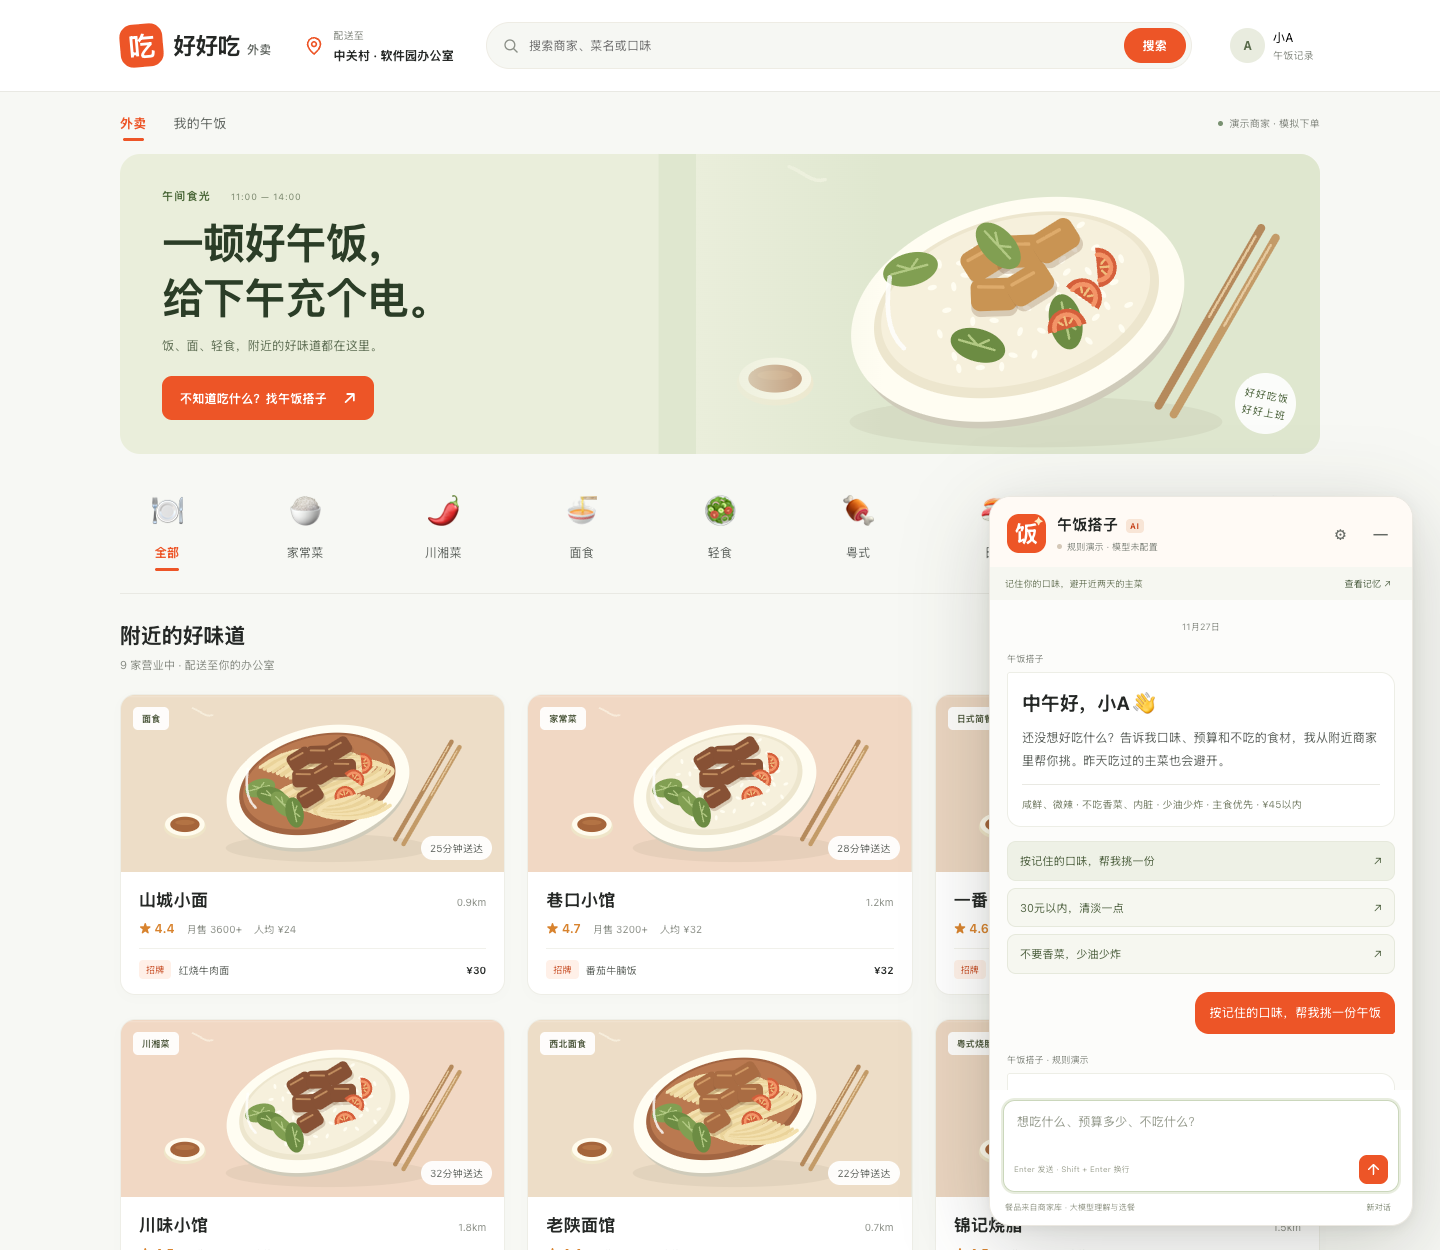
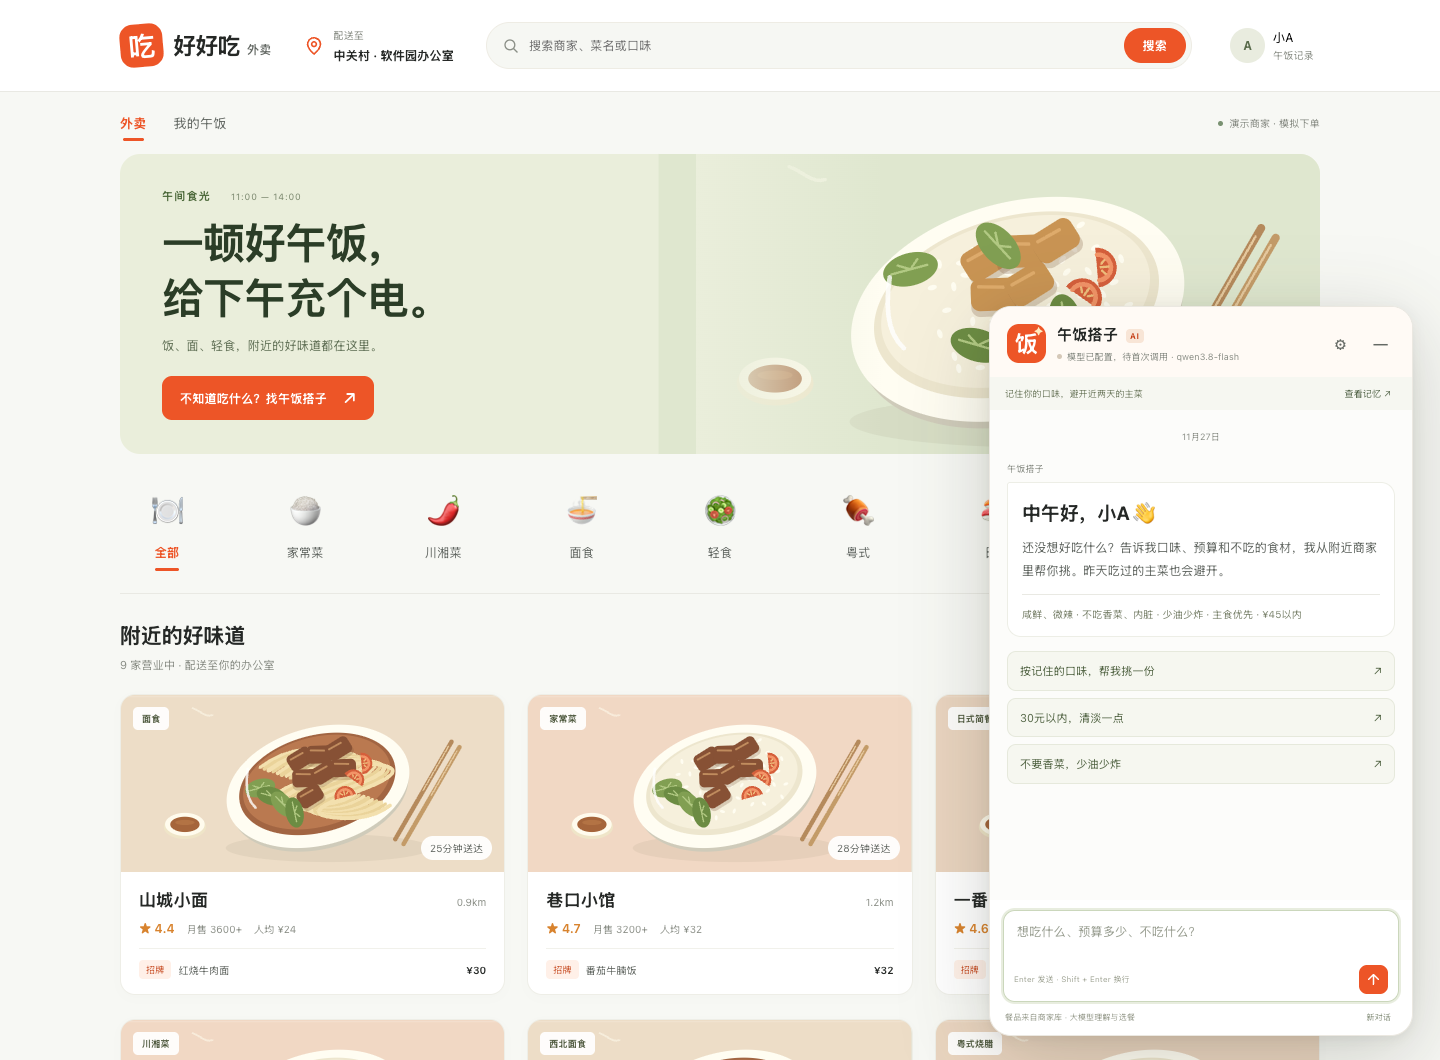
Finalize Qwen preferences and real-call diagnostics

diff --git a/server/configure-key.py b/server/configure-key.py
@@ -1,0 +1,53 @@
+"""从百炼导出的 CSV 安全写入本地 .env，不打印密钥。"""
+import csv
+import os
+from pathlib import Path
+import sys
+import tempfile
+
+
+def main():
+    if len(sys.argv) != 2:
+        raise ValueError("用法：python3 server/configure-key.py 密钥CSV路径")
+    source = Path(sys.argv[1])
+    with source.open(encoding="utf-8-sig", newline="") as handle:
+        rows = list(csv.reader(handle))
+    keys = [cell.strip() for row in rows for cell in row if cell.strip().startswith("sk-")]
+    if len(keys) != 1 or any(character.isspace() for character in keys[0]):
+        raise ValueError("CSV 必须包含一条完整 API Key。")
+    target = Path(__file__).resolve().parent / ".env"
+    lines = target.read_text().splitlines() if target.exists() else []
+    replacement = "DASHSCOPE_API_KEY=" + keys[0]
+    updated = []
+    replaced = False
+    for line in lines:
+        if line.startswith("DASHSCOPE_API_KEY="):
+            if not replaced:
+                updated.append(replacement)
+                replaced = True
+        else:
+            updated.append(line)
+    if not replaced:
+        updated.append(replacement)
+    temporary = None
+    try:
+        with tempfile.NamedTemporaryFile(
+            mode="w", encoding="utf-8", dir=target.parent, prefix=".env.", delete=False
+        ) as handle:
+            temporary = Path(handle.name)
+            os.chmod(temporary, 0o600)
+            handle.write("\n".join(updated) + "\n")
+        os.replace(temporary, target)
+        os.chmod(target, 0o600)
+    finally:
+        if temporary is not None:
+            temporary.unlink(missing_ok=True)
+    print("百炼 API Key 已写入 server/.env，文件权限为 600。")
+
+
+if __name__ == "__main__":
+    try:
+        main()
+    except (ValueError, OSError, csv.Error):
+        print("配置失败：请确认 CSV 中有一条完整密钥，且本地配置可写。", file=sys.stderr)
+        sys.exit(1)

diff --git a/server/README.md b/server/README.md
@@ -18,7 +18,7 @@ npm --prefix server start
 打开 <http://127.0.0.1:3000>。后端同时提供页面和 API，不需要前端跨域。
 使用 Python 静态服务或 GitHub Pages 时不具备这些 API，前端应保持规则模式。
 
-本次接入已创建空的 `server/.env`，可直接填 Key；示例复制命令用于新机器初始化。
+`server/.env` 保存本机配置；示例复制命令用于新机器初始化，已有配置时不要覆盖。
 `server/.env` 被 `.gitignore` 忽略；启动后只显示是否读取配置，不打印凭证。
 不要把 Key 放入 app.js、localStorage、聊天消息或发给真实用户。
 修改环境变量后重启服务。当前实现为本机单用户 Demo，尚未部署公开云端。
@@ -40,7 +40,7 @@ npm --prefix server start
 | HOST | 127.0.0.1 | 仅监听本机 |
 | PORT | 3000 | 页面和 API 端口 |
 | MODEL_TIMEOUT_MS | 8000 | 每次模型任务的总时限，含结构错误重试 |
-| MODEL_MAX_TOKENS | 800 | 单次输出上限 |
+| MODEL_MAX_TOKENS | 600 | 单次输出上限 |
 
 调用为 OpenAI 兼容 `POST /chat/completions`，采用
 `response_format: { type: "json_schema", json_schema: { strict: true, ... } }`，
@@ -174,6 +174,9 @@ npm --prefix server start
 明确不能覆盖的忌口（例如菜单未标注芝麻）返回 `picks: []`，先澄清再推荐。
 
 已有忌口会由服务器保守保留；普通口味修改不会清空它。
+“清淡/清爽/养胃/不想吃辣/少辣”会确定为 `tastes` 里的“清淡”，并移除“微辣”“重辣”；
+这是服务端在模型解析后再次强制执行的，不依赖模型是否遵守提示词。
+只有明确说“想吃辣/要辣”时才保留辣味标签。
 取消单项可明确说“现在可以吃香菜”，清空可说“清空忌口”，也可通过设置控件取消。
 
 ## 前端接线要点
@@ -194,11 +197,26 @@ npm --prefix server start
 ```bash
 npm --prefix server test
 curl http://127.0.0.1:3000/api/health
+# 以下会真实调用百炼，并按账号额度计费：
+npm --prefix server run smoke -- --direct
+npm --prefix server run smoke
+npm --prefix server run smoke -- --chat
 ```
 
 测试使用本地替身，不发送真实百炼请求、不消耗账户额度。
-Key 配置后需再做一次真实 `/api/recommend`，确认返回 `source: "qwen"`。
-没有真实凭证前，无法证明账号鉴权、实际响应质量或生产延迟。
+`smoke` 会使用本地临时端口验证真实账号，不中断正在运行的 Demo；
+`--direct` 验证单独模型接口，`--chat` 验证偏好解析和推荐。
+可用 `python3 server/configure-key.py 百炼导出的密钥.csv` 安全导入 Key；
+它只写入 `server/.env`，权限为 600，不打印密钥。
+
+2026-11-27 已用用户提供的真实账号验证：模型接口 HTTP 200；
+推荐返回 `source: "qwen"`、无降级，单次实测 3722ms、输入 1777/输出 336 tokens。
+按当前刊例价，本次推荐约 0.00233 元。这是一次联调结果，不是延迟或推荐质量的统计保证。
+中文对话“不吃花生，今天想吃米饭，预算30元”也已验证：
+保留原有忌口、新增花生、主食改为米饭、预算改为30元，返回三款符合约束的推荐，
+`profile_applied: true`、`source: "qwen"`。
+真实联调还发现模型会多输出有效匹配标签，现已将其归一化为最多 4 条，
+并继续拒绝未知菜品 ID、未知事实和重复菜品。
 
 当前保留原 Demo 的午饭日记忆模型，以 `dayIndex` 对今天、昨天、前天去重，
 同主菜换商家或 SKU 也会被排除。真实订单接入时应由服务端账户历史提供时间戳；

diff --git a/README.md b/README.md
@@ -97,6 +97,8 @@ npm --prefix server test
 node --check app.js
 ```
 
-测试使用模型替身，不代表已经验证真实账户的权限、额度或模型质量。没有真实 Key 时，演示的自然语言解析与实际模型效果仍需配置后验证。
+自动化测试使用模型替身；另外已在 2026-11-27 完成真实百炼调用和浏览器联调，确认 `source: "qwen"`、`model: "qwen3.8-flash"`，中文预算、忌口与主食偏好成功应用。真实调用的延迟与推荐质量仍取决于模型和当次需求。
+
+后续“清淡”口味解析已修复，并由 16 项服务端测试覆盖；该修复的真实模型复验遇到百炼账号欠费（HTTP 400 / Arrearage），未完成。额度恢复后需再跑一次真实“清淡”对话；账号状态不影响浏览商家、手动偏好与规则回退。
 
 偏好和模拟午饭记录存于本地 `localStorage`；本产品没有真实下单、多用户账号、实时库存或真实订单历史。菜单未标注的食材无法可靠推断，模型遇到不支持的忌口会先提示澄清。
